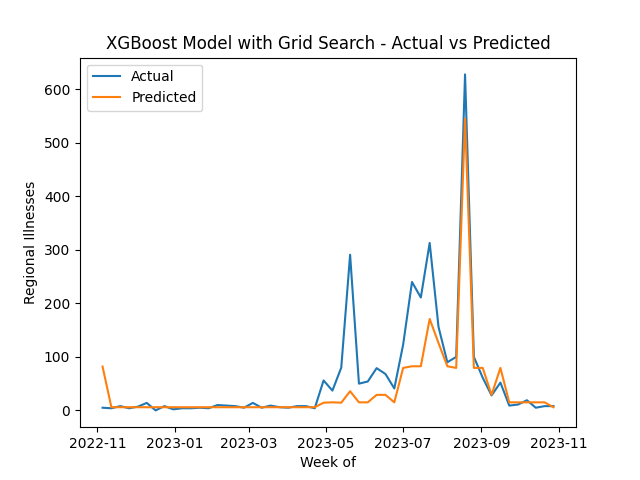
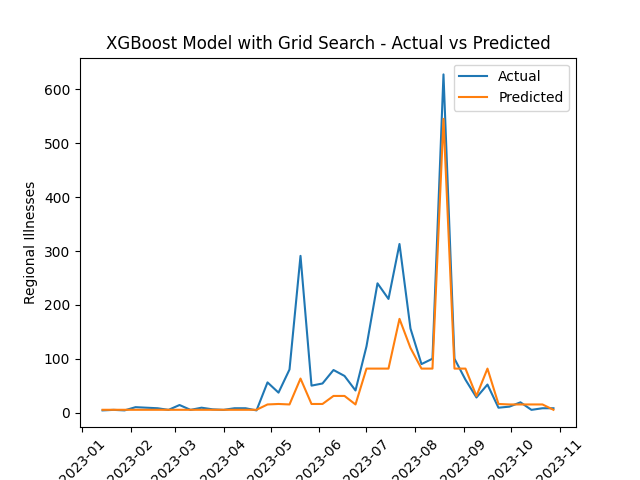
XGBoost Updated

diff --git a/xgboostmodel.py b/xgboostmodel.py
@@ -7,6 +7,7 @@ import matplotlib.pyplot as plt
 
 # Load the dataset
 df = pd.read_csv('260_weeks_data.csv')
+df = df.drop([i for i in range(1380, 1910)])
 
 # Filter data for region 10
 df_region_10 = df[df['Region'] == 10]
@@ -55,8 +56,9 @@ print(f'Test RMSE with Grid Search: {rmse}')
 # Plot the actual vs predicted values for the last weeks
 plt.plot(np.array(df_region_10.index[-len(y_test):]), np.array(y_test), label='Actual')
 plt.plot(np.array(df_region_10.index[-len(y_test):]), y_pred, label='Predicted')
-plt.xlabel('Week of')
+plt.xlabel('Time')
 plt.ylabel('Regional Illnesses')
 plt.title('XGBoost Model with Grid Search - Actual vs Predicted')
+plt.xticks(rotation=45)
 plt.legend()
 plt.savefig('XGBoost_Plot_Region10.png')
